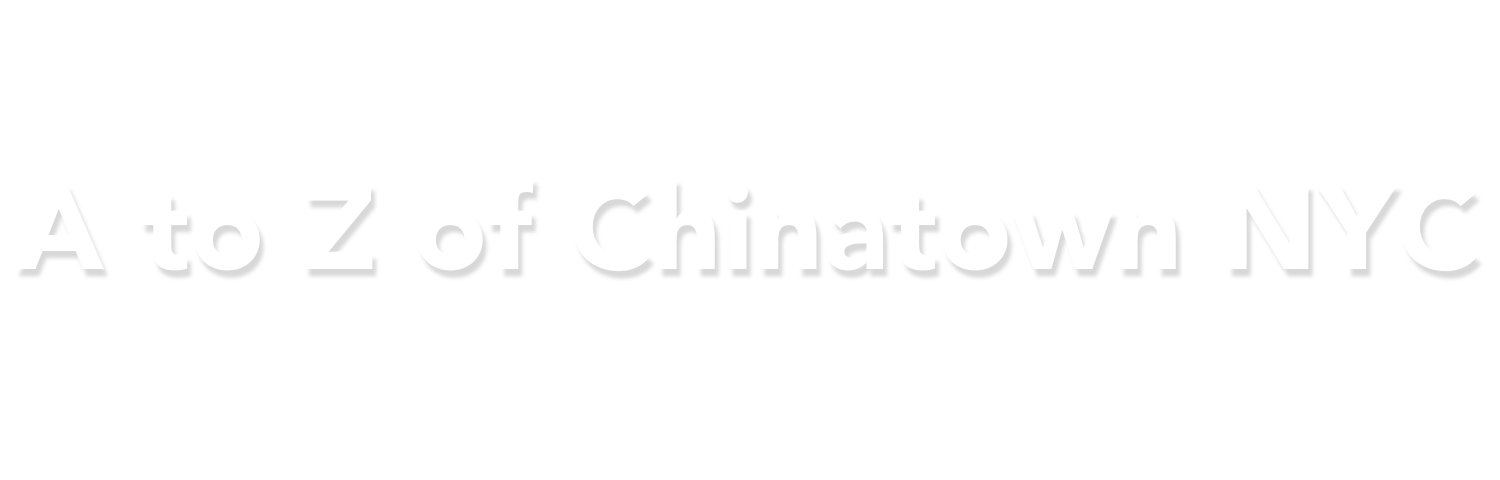
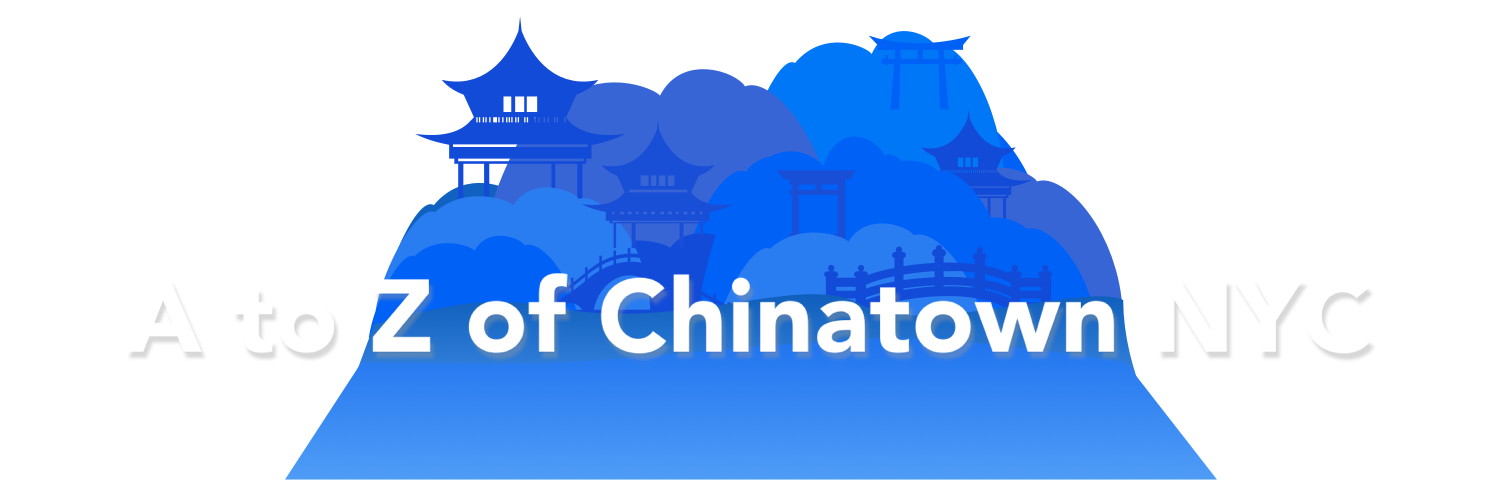
renew 26

diff --git a/A to Z Chinatown!/javascripts/app-c1370eb7.js b/A to Z Chinatown!/javascripts/app-c1370eb7.js
@@ -4533,7 +4533,7 @@
             colour: "#ffffff",
             textColour: "#4286f4",
             title: "wonton"
-            
+
           }, {
             key: "e",
             keyCode: 69,
@@ -5026,7 +5026,7 @@
                 onClick: this.props.handleShareClick,
                 ref: "shareBtn"
               }, "Share the letter ", this.props.previousLetter.key.toUpperCase()) : null,
-              r = this._isTouchDevice() ? "Tap any letter" : "Let's Meet China Town",
+              r = this._isTouchDevice() ? "Tap any letter" : "Tap And Hold Any Keyboard Letter, Meet The Chinatown NYC",
               o = "0" != this.props.activeLetter.key && this._isTouchDevice() ? null : e.createElement("p", {
                 className: "keyboard__instructions"
               }, r);
@@ -5112,7 +5112,7 @@
               className: "hidden"
             }, "The A-Z of ChinaTown"), e.createElement("img", {src:"/assets/heading-a.png"} ),
              e.createElement("img", {
-              src: "/assets/pigeon-4f68af0f.gif",
+              src: "/assets/lantern.gif",
               className: "landing__heading__pigeon"
             })), n, e.createElement(p["default"], {
               activeLetter: this.props.activeLetter,
@@ -5125,7 +5125,7 @@
               className: "footer"},
 							e.createElement("div", {
               className: "footer__left"
-              }, 
+              },
 						//e.createElement("a", {
             //    href: "//www.citizenm.com/destinations/london/london-bankside-hotel",
             //    target: "_blank"
@@ -5138,14 +5138,14 @@
             //   href: "//www.citizenm.com/destinations/london/tower-of-london-hotel",
             //   target: "_blank"
             // }, "Tower of London")
-            ), 
+            ),
             //   e.createElement("div", {
             //   className: "footer__right"
             // }, e.createElement("a", {
             //   className: "footer__brand",
             //   href: "//citizenm.com/destinations/london",
             //   target: "_blank"
-            // }, 
+            // },
             e.createElement("p", {
               className: "hidden"
             }, "Citizen M"),

diff --git a/A to Z Chinatown!/stylesheets/app-464e5fc3.css b/A to Z Chinatown!/stylesheets/app-464e5fc3.css
@@ -5,7 +5,7 @@
 
 body {
   margin: 0;
-  background-color: #d2d8db
+  background-color: #4F9CF6
 }
 
 .btn {
